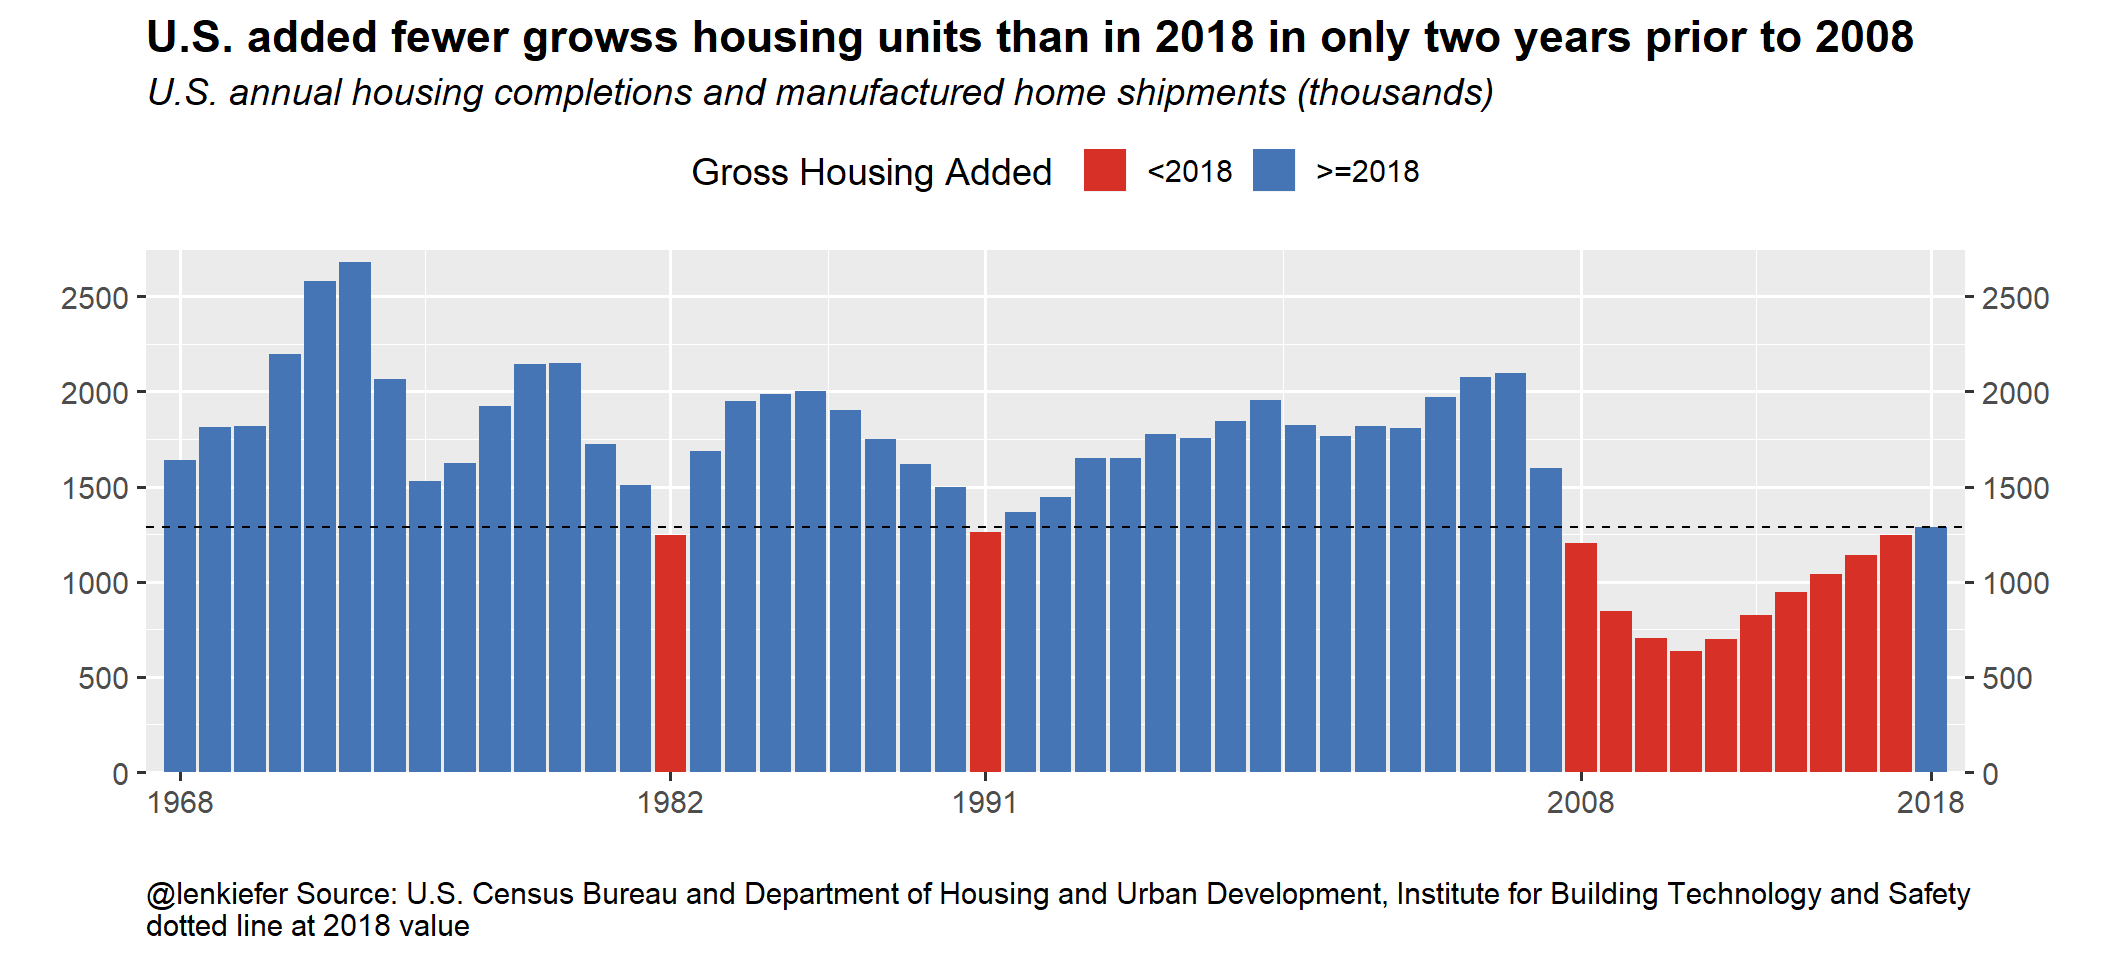
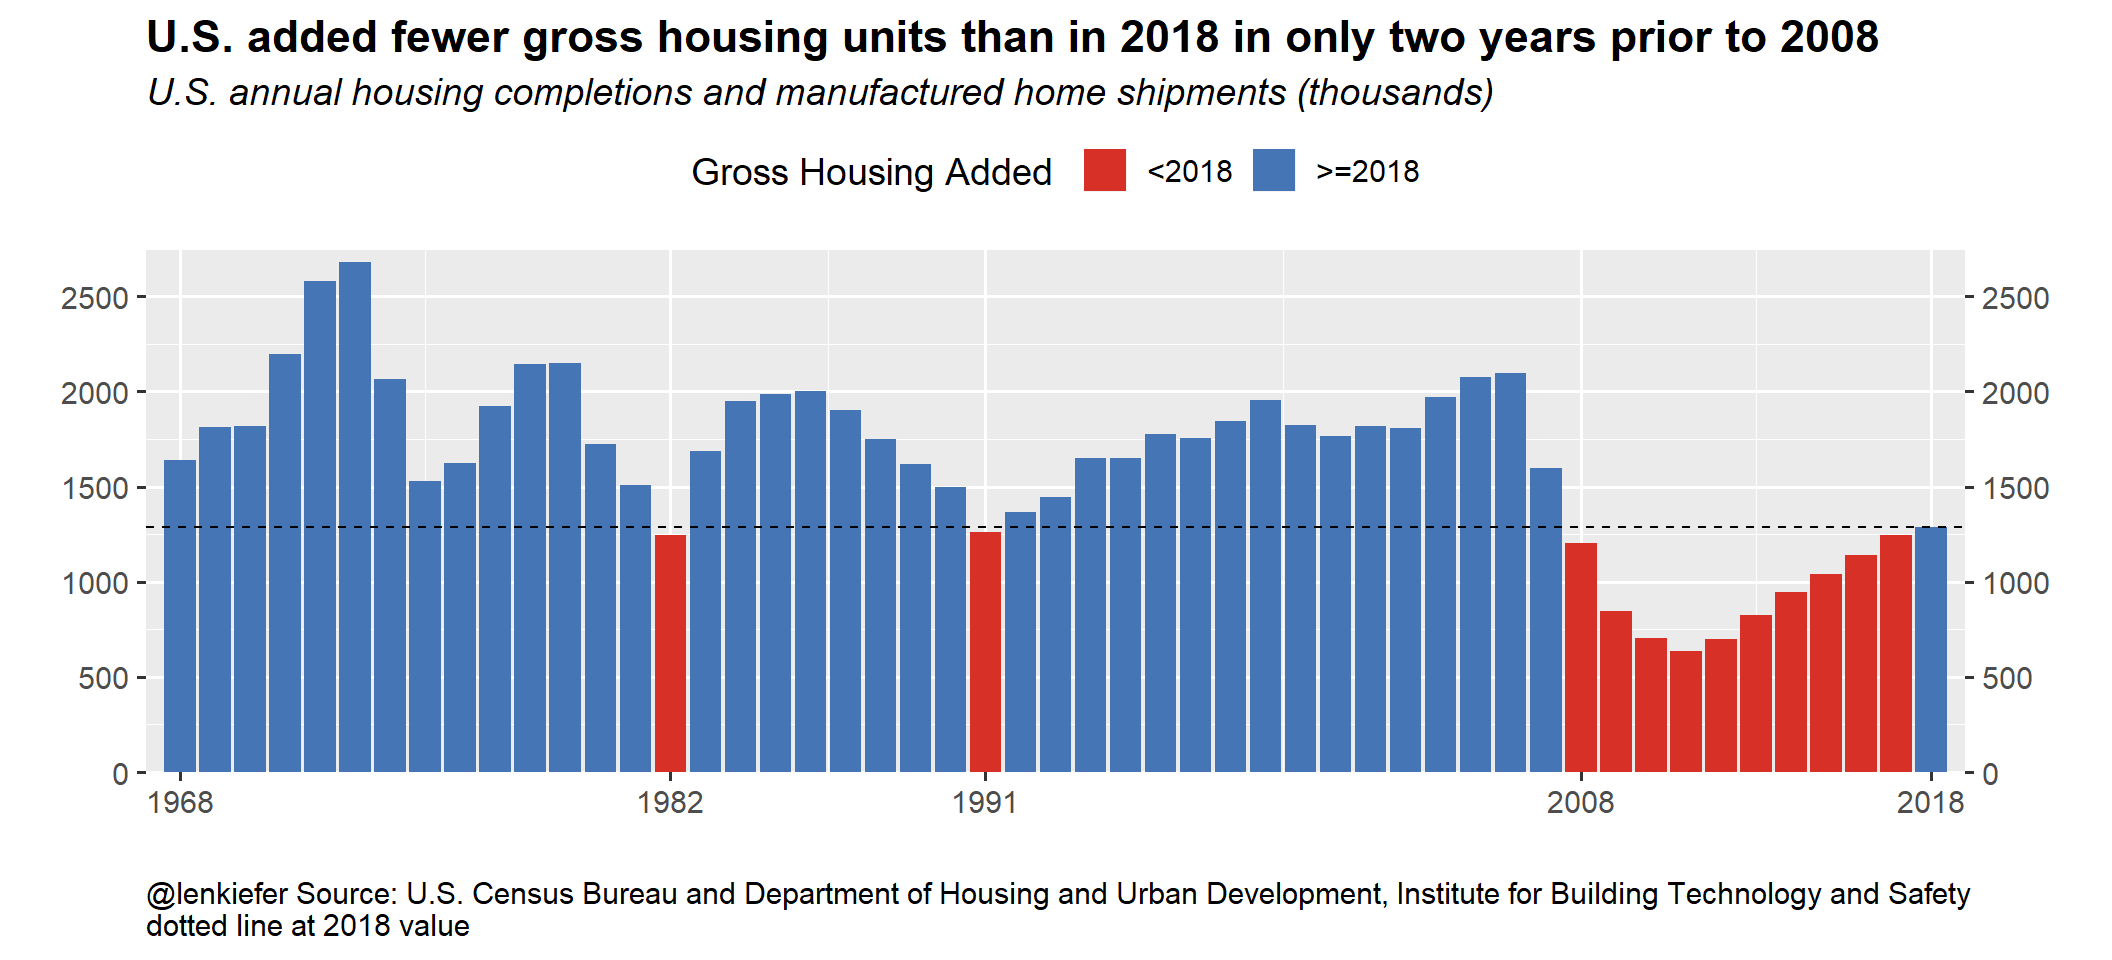
mar 3 2019 update tp

Changed region(s): [[0.2812, 0.0, 0.9062, 0.0625]]

diff --git a/2019/03/03/mortgage-rates-and-housing-construction/index.html b/2019/03/03/mortgage-rates-and-housing-construction/index.html
@@ -327,7 +327,7 @@ df_comp &lt;- filter(df, symbol==&quot;COMPUTNSA&quot;) %&gt;% group_by(year) %&
 <pre class="r"><code>ggplot(data=df_comp, aes(x=year,y=total, fill=ifelse(total  &lt; last(total),&quot;&lt;2018&quot;,&quot;&gt;=2018&quot;)))+
   geom_col()+
   scale_fill_manual(name=&quot;Gross Housing Added &quot;, values= c(&quot;#d73027&quot;,&quot;#4575b4&quot;))+
-  labs(title=&quot;U.S. added fewer growss housing units than in 2018 in only two years prior to 2008&quot;,
+  labs(title=&quot;U.S. added fewer gross housing units than in 2018 in only two years prior to 2008&quot;,
        subtitle=&quot;U.S. annual housing completions and manufactured home shipments (thousands)&quot;,
        caption=&quot;@lenkiefer Source: U.S. Census Bureau and Department of Housing and Urban Development, Institute for Building Technology and Safety\ndotted line at 2018 value&quot;,
        x=&quot;&quot;,y=&quot;&quot;)+
@@ -539,6 +539,12 @@ animate(anim3, end_pause=25,nframes=350,width=1000,height=800)
 anim_save(file=&quot;PATH_TO_YOUR_DIRECTORY/starts1_line_anim_mar2019_v5_long.gif&quot;, 
           animation = last_animation())</code></pre>
 <p><img src="../../../../img/charts_mar_03_2019/starts1_line_anim_mar2019_v5_long.gif"></p>
+<div id="update" class="section level3">
+<h3>Update</h3>
+<p>Turns out it may just be me. Thomas Lin Pedersen <a href="https://twitter.com/thomasp85/status/1102318990339293188">pointed out</a> that you can skip this business in the last example by setting <code>WRAP=FALSE</code>. However, when I applied it to the example above, I got an error if I run this.</p>
+<pre class="r"><code>g3+transition_states(year,transition_length=1, state_length=1, wrap=FALSE)</code></pre>
+<p><code>wrap=FALSE</code> does seem to work in simpler animations, so I’m not sure what exactly causes this error. If I can figure out a minimal reprex I may file an issue, but for now I’ll used my workaround above. But for you own application using <code>wrap=FALSE</code> may be a good solution.</p>
+</div>
 </div>
 
 
